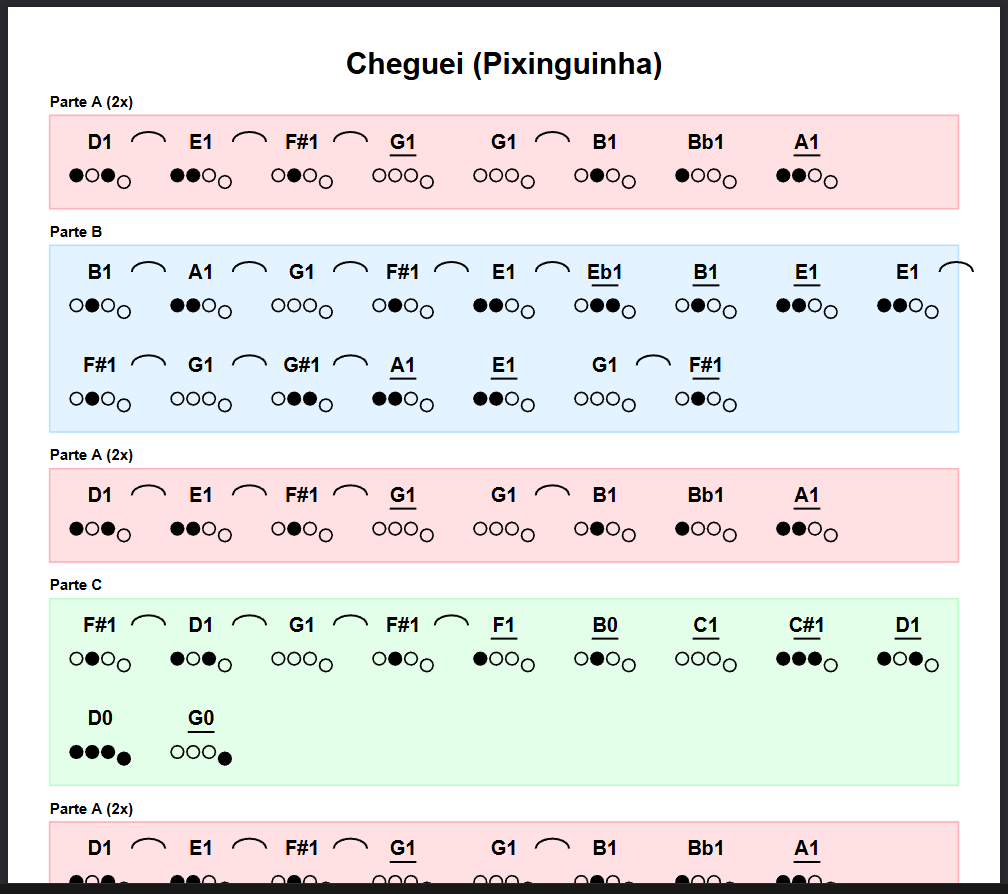
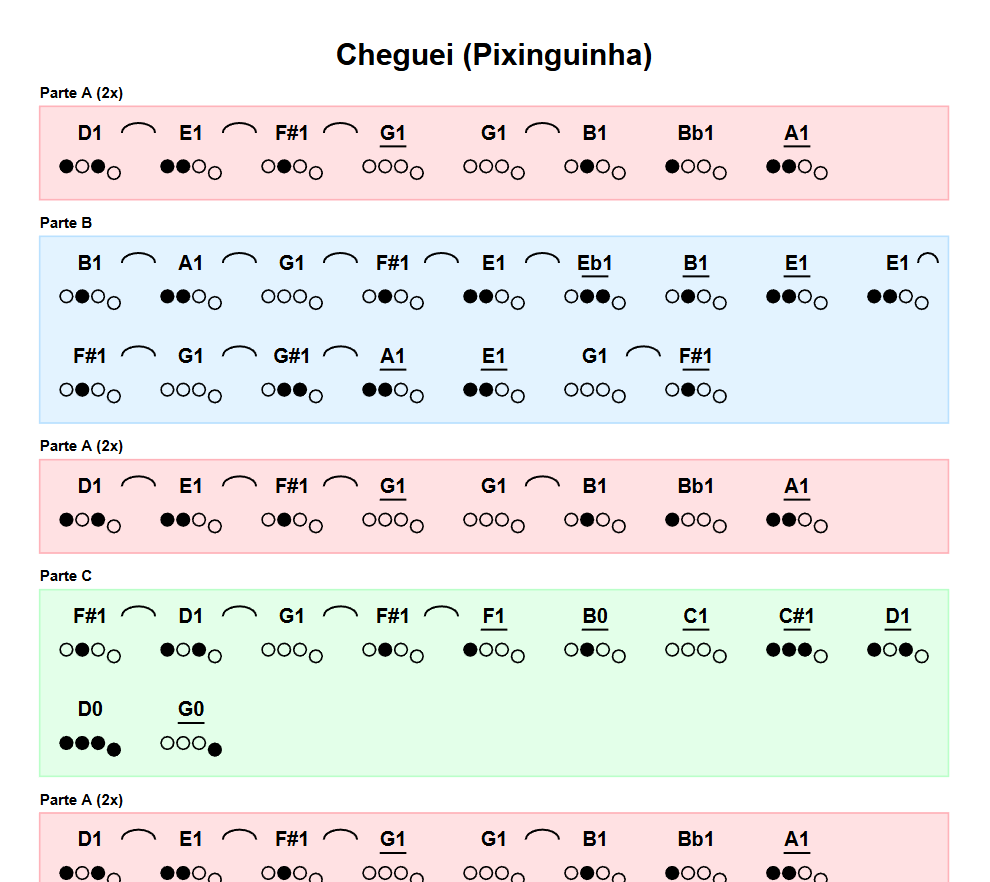
Fix overflow of connected notes.

diff --git a/src/bombardinha/core/renderer.py b/src/bombardinha/core/renderer.py
@@ -64,7 +64,9 @@ class EuphoniumRenderer:
         self.c.setFillColor(black)
         self.c.drawCentredString(self.width / 2, self.height - 40, self.title)
 
-    def draw_note_block(self, note: Note, x: float, y: float) -> None:
+    def draw_note_block(
+        self, note: Note, x: float, y: float, is_last: bool = False
+    ) -> None:
         self.c.setFont("Helvetica-Bold", 12)
         self.c.setFillColor(black)
         self.c.setStrokeColor(black)
@@ -93,7 +95,10 @@ class EuphoniumRenderer:
 
         if note.is_connected:
             self.c.setLineWidth(1.2)
-            self.c.arc(x + 19, y + 34, x + 39, y + 46, startAng=0, extent=180)
+            if not is_last:
+                self.c.arc(x + 19, y + 34, x + 39, y + 46, startAng=0, extent=180)
+            else:
+                self.c.arc(x + 12, y + 34, x + 24, y + 46, startAng=0, extent=180)
             self.c.setLineWidth(1)
 
     def render_sheet(self, sheet: Sheet) -> None:
@@ -136,7 +141,8 @@ class EuphoniumRenderer:
             for row in rows:
                 for i, note in enumerate(row):
                     note_x = self.margin + (note_step / 2) + (i * note_step)
-                    self.draw_note_block(note, note_x, row_start_y)
+                    is_last = i == len(row) - 1
+                    self.draw_note_block(note, note_x, row_start_y, is_last=is_last)
                 row_start_y -= self.row_height
 
             self.current_y -= part_height + 22
